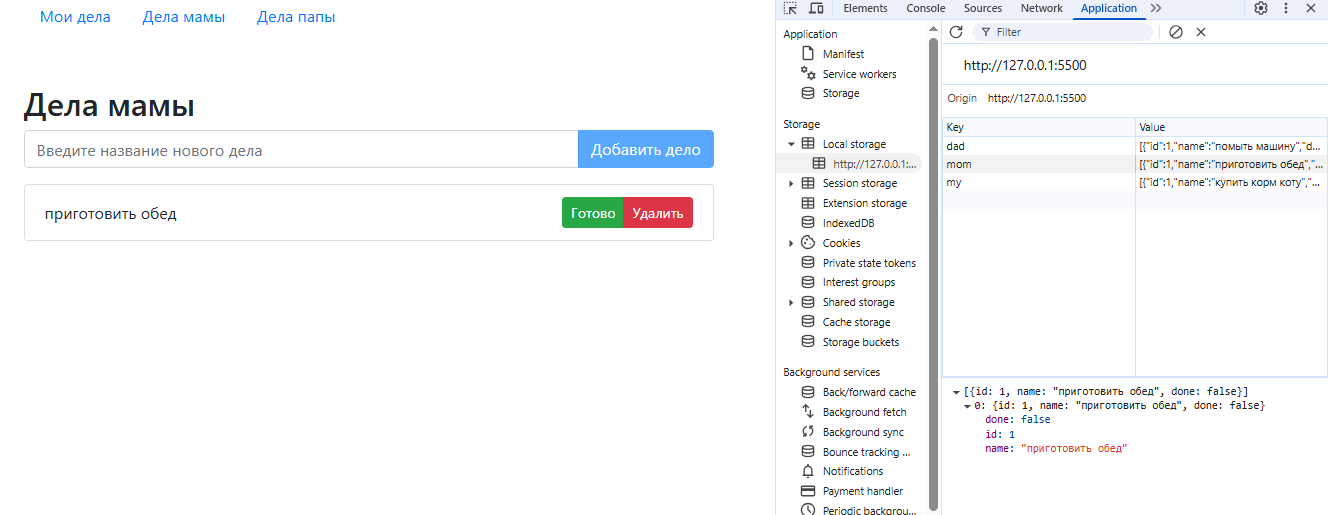
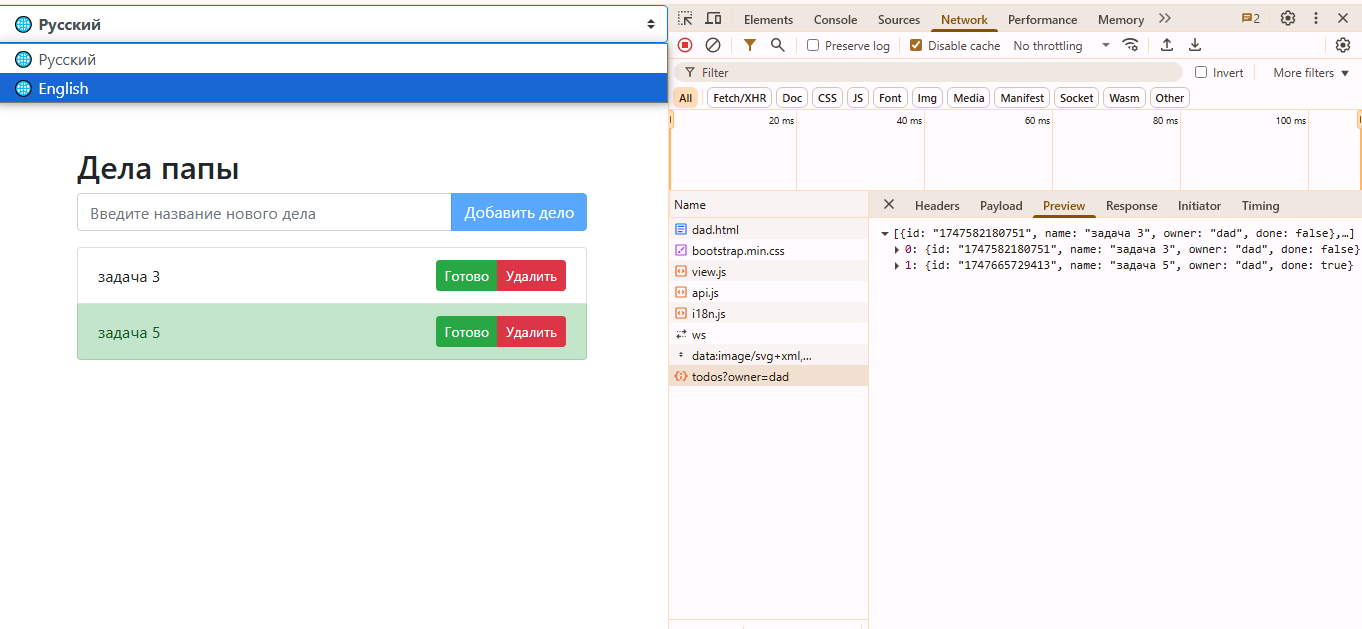
add bilingual (RU/EN) interface, instant language switching, updated README and screenshots

Changed region(s): [[0.0, 0.0, 1.0, 1.0]]

diff --git a/docs/js/view.js b/docs/js/view.js
@@ -1,11 +1,95 @@
-function createAppTitle(title) {
+// eslint-disable-next-line import/extensions
+import { translations, supportedLangs } from './i18n.js';
+
+// Функция для получения текущего языка из localStorage
+function getCurrentLang() {
+  return localStorage.getItem('lang') || 'ru';
+}
+
+// Функция для создания элемента select с языками
+function createLangSelect(owner) {
+  const langSelect = document.createElement('select');
+  langSelect.classList.add('custom-select', 'border', 'border-primary', 'shadow', 'mb-3', 'px-3', 'py-1', 'font-weight-bold');
+
+  // Заполняем элемент select языками
+  supportedLangs.forEach((lang) => {
+    const option = document.createElement('option'); // Создаем элемент option
+    option.value = lang.code; // Устанавливаем значение value
+    option.textContent = `🌐 ${lang.label}`; // Устанавливаем текстовое содержимое
+
+    if (lang.code === getCurrentLang()) option.selected = true; // Устанавливаем язык из localStorage
+    langSelect.append(option); // Добавляем элемент option в select
+  });
+
+  // Обработчик события изменения языка
+  langSelect.addEventListener('change', (e) => {
+    e.preventDefault();
+    const selectedLang = e.target.value; // Получаем выбранный язык из элемента select
+    localStorage.setItem('lang', selectedLang); // Сохраняем выбранный язык в localStorage
+    document.documentElement.lang = selectedLang; // Устанавливаем атрибут lang у html элемента
+
+    // eslint-disable-next-line no-use-before-define
+    setAppNavText(); // Создаем текст навигации
+
+    document.querySelector('h2').innerHTML = translations[selectedLang][`title_${owner}`] || translations[selectedLang].title_my;
+    document.querySelector('input').placeholder = translations[selectedLang].addPlaceholder; // Изменяем плейсхолдер в поле ввода
+    document.querySelector('button').textContent = translations[selectedLang].addButton; // Изменяем текст кнопки добавления
+
+    document.querySelectorAll('.btn-success').forEach((btn) => { // Изменяем текст кнопки "Готово"
+      btn.textContent = translations[selectedLang].doneButton;
+    });
+
+    document.querySelectorAll('.btn-danger').forEach((btn) => {
+      btn.textContent = translations[selectedLang].deleteButton;
+    });
+
+    document.querySelectorAll('.btn-group').forEach((btnGroup) => {
+      btnGroup.querySelector('button').textContent = translations[selectedLang].doneButton;
+      btnGroup.querySelectorAll('button')[1].textContent = translations[selectedLang].deleteButton;
+    });
+  });
+
+  // Обработчик события загрузки страницы
+  document.addEventListener('DOMContentLoaded', () => {
+    const savedLang = localStorage.getItem('lang') || 'ru';
+    document.documentElement.lang = savedLang;
+    langSelect.value = savedLang;
+    document.body.prepend(langSelect); // Добавляем элемент select в начало body
+  });
+
+  return langSelect; // Возвращаем элемент select
+}
+
+createLangSelect();
+
+// Функция для создания текста навигации
+function setAppNavText() {
+  const lang = getCurrentLang();
+  const t = translations[lang];
+  const navLinks = [
+    { id: 'nav-my-link', key: 'title_my' },
+    { id: 'nav-mom-link', key: 'title_mom' },
+    { id: 'nav-dad-link', key: 'title_dad' },
+  ];
+  navLinks.forEach((link) => {
+    const el = document.getElementById(link.id);
+    if (el) el.textContent = t[link.key];
+  });
+}
+
+// Функция для создания заголовка приложения
+function createAppTitle(owner) {
+  const lang = getCurrentLang();
+  const t = translations[lang];
   const appTitle = document.createElement('h2');
-  appTitle.innerHTML = title;
+  appTitle.innerHTML = t[`title_${owner}`] || t.title_my;
 
   return appTitle;
 }
 
 function createTodoItemForm() {
+  const lang = getCurrentLang();
+  const t = translations[lang];
   const form = document.createElement('form');
   const input = document.createElement('input');
   const buttonWrapper = document.createElement('div');
@@ -13,10 +97,10 @@ function createTodoItemForm() {
 
   form.classList.add('input-group', 'mb-3');
   input.classList.add('form-control');
-  input.placeholder = 'Введите название нового дела';
+  input.placeholder = t.addPlaceholder;
   buttonWrapper.classList.add('input-group-append');
   button.classList.add('btn', 'btn-primary', 'disabled');
-  button.textContent = 'Добавить дело';
+  button.textContent = t.addButton;
 
   buttonWrapper.append(button);
   form.append(input);
@@ -44,10 +128,10 @@ function createTodoList() {
 }
 
 function createTodoItemElement(todoItem, { onDone, onDelete }) {
+  const lang = getCurrentLang();
+  const t = translations[lang];
   const doneClass = 'list-group-item-success';
-
   const item = document.createElement('li');
-
   const buttonGroup = document.createElement('div');
   const doneButton = document.createElement('button');
   const deleteButton = document.createElement('button');
@@ -62,23 +146,23 @@ function createTodoItemElement(todoItem, { onDone, onDelete }) {
 
   buttonGroup.classList.add('btn-group', 'btn-group-sm');
   doneButton.classList.add('btn', 'btn-success');
-  doneButton.textContent = 'Готово';
+  doneButton.textContent = t.doneButton;
   deleteButton.classList.add('btn', 'btn-danger');
-  deleteButton.textContent = 'Удалить';
+  deleteButton.textContent = t.deleteButton;
 
   buttonGroup.append(doneButton);
   buttonGroup.append(deleteButton);
   item.append(buttonGroup);
 
   doneButton.addEventListener('click', () => {
-    item.classList.toggle(doneClass, todoItem.done); // Переключение класса doneClass
-    onDone({ todoItem, element: item }); // Вызов функции onDone с объектом todoItem и элементом item
+    item.classList.toggle(doneClass, todoItem.done);
+    onDone({ todoItem, element: item });
   });
 
   deleteButton.addEventListener('click', () => {
-    if (confirm('Вы уверены?')) {
-      onDelete({ todoItem, element: item }); // Вызов функции onDelete с объектом todoItem и элементом item
-      item.remove(); // Удаление элемента из DOM
+    if (confirm(t.confirmDelete)) {
+      onDelete({ todoItem, element: item });
+      item.remove();
     }
   });
 
@@ -86,15 +170,14 @@ function createTodoItemElement(todoItem, { onDone, onDelete }) {
 }
 
 async function createTodoApp(container, {
-  title,
   owner,
   todoItemList = [],
   onCreateFormSubmit,
-  onDoneClick, // обработчик события на кнопку "Готово"
-  onDeleteClick, // обработчик события на кнопку "Удалить"
+  onDoneClick,
+  onDeleteClick,
 }) {
-  // Вызов раннее созданных функций
-  const todoAppTitle = createAppTitle(title);
+  setAppNavText();
+  const todoAppTitle = createAppTitle(owner); // используем owner напрямую
   const todoItemForm = createTodoItemForm();
   const todoList = createTodoList();
 
@@ -105,8 +188,8 @@ async function createTodoApp(container, {
         owner,
         done: !todoItem.done,
       });
-      todoItem.done = !todoItem.done; // Изменение состояния done
-      element.classList.toggle('list-group-item-success', todoItem.done); // Переключение класса doneClass
+      todoItem.done = !todoItem.done;
+      element.classList.toggle('list-group-item-success', todoItem.done);
     },
     onDelete: async ({ todoItem, element }) => {
       await onDeleteClick({
@@ -121,7 +204,6 @@ async function createTodoApp(container, {
   container.append(todoItemForm.form);
   container.append(todoList);
 
-  // Получение списка дел
   todoItemList.forEach((todoItem) => {
     const todoItemElement = createTodoItemElement(todoItem, handlers);
     todoList.append(todoItemElement);
@@ -129,23 +211,16 @@ async function createTodoApp(container, {
 
   todoItemForm.form.addEventListener('submit', async (e) => {
     e.preventDefault();
-
-    // Проверка на пустое значение
     if (!todoItemForm.input.value) {
       return;
     }
-
     const todoItem = await onCreateFormSubmit({
       owner,
       name: todoItemForm.input.value.trim(),
       done: false,
     });
-
     const todoItemElement = createTodoItemElement(todoItem, handlers);
-
     todoList.append(todoItemElement);
-
-    // обнуляем значение в поле, чтобы не пришлось его стирать вручную
     todoItemForm.input.value = '';
   });
 }

diff --git a/docs/dad.html b/docs/dad.html
@@ -16,7 +16,6 @@
     (async () => {
       const todoItemList = await api.getTodoItemList(owner);
       createTodoApp(document.getElementById('todo-app'), {
-        title: 'Дела папы',
         owner,
         todoItemList,
         onCreateFormSubmit: api.createTodoItem,
@@ -30,9 +29,9 @@
 <body>
   <div class="container mb-5">
     <nav class="nav">
-      <a class="nav-link" href="index.html">Мои дела</a>
-      <a class="nav-link" href="mom.html">Дела мамы</a>
-      <a class="nav-link" href="dad.html">Дела папы</a>
+      <a class="nav-link" href="index.html" id="nav-my-link"></a>
+      <a class="nav-link" href="mom.html" id="nav-mom-link"></a>
+      <a class="nav-link" href="dad.html" id="nav-dad-link"></a>
     </nav>
   </div>
   <div class="container" id="todo-app"></div>

diff --git a/docs/mom.html b/docs/mom.html
@@ -16,7 +16,6 @@
     (async () => {
       const todoItemList = await api.getTodoItemList(owner);
       createTodoApp(document.getElementById('todo-app'), {
-        title: 'Дела мамы',
         owner,
         todoItemList,
         onCreateFormSubmit: api.createTodoItem,
@@ -30,9 +29,9 @@
 <body>
   <div class="container mb-5">
     <nav class="nav">
-      <a class="nav-link" href="index.html">Мои дела</a>
-      <a class="nav-link" href="mom.html">Дела мамы</a>
-      <a class="nav-link" href="dad.html">Дела папы</a>
+      <a class="nav-link" href="index.html" id="nav-my-link"></a>
+      <a class="nav-link" href="mom.html" id="nav-mom-link"></a>
+      <a class="nav-link" href="dad.html" id="nav-dad-link"></a>
     </nav>
   </div>
   <div class="container" id="todo-app"></div>

diff --git a/docs/index.html b/docs/index.html
@@ -16,7 +16,6 @@
     (async () => {
       const todoItemList = await getTodoItemList(owner);
       createTodoApp(document.getElementById('todo-app'), {
-        title: 'Мои дела',
         owner,
         todoItemList,
         onCreateFormSubmit: createTodoItem,
@@ -30,9 +29,9 @@
 <body>
   <div class="container mb-5">
     <nav class="nav">
-      <a class="nav-link" href="index.html">Мои дела</a>
-      <a class="nav-link" href="mom.html">Дела мамы</a>
-      <a class="nav-link" href="dad.html">Дела папы</a>
+      <a class="nav-link" href="index.html" id="nav-my-link"></a>
+      <a class="nav-link" href="mom.html" id="nav-mom-link"></a>
+      <a class="nav-link" href="dad.html" id="nav-dad-link"></a>
     </nav>
   </div>
   <div class="container" id="todo-app"></div>

diff --git a/docs/js/i18n.js b/docs/js/i18n.js
@@ -1,0 +1,27 @@
+export const translations = {
+  ru: {
+    title_my: 'Мои дела',
+    title_mom: 'Дела мамы',
+    title_dad: 'Дела папы',
+    addPlaceholder: 'Введите название нового дела',
+    addButton: 'Добавить дело',
+    doneButton: 'Готово',
+    deleteButton: 'Удалить',
+    confirmDelete: 'Вы уверены?',
+  },
+  en: {
+    title_my: 'My Tasks',
+    title_mom: 'Mom\'s Tasks',
+    title_dad: 'Dad\'s Tasks',
+    addPlaceholder: 'Enter a new task',
+    addButton: 'Add Task',
+    doneButton: 'Done',
+    deleteButton: 'Delete',
+    confirmDelete: 'Are you sure?',
+  },
+};
+
+export const supportedLangs = [
+  { code: 'ru', label: 'Русский' },
+  { code: 'en', label: 'English' },
+];

diff --git a/README.md b/README.md
@@ -1,6 +1,14 @@
 # To-Do App
 
+> ⚠ **Note:** On GitHub Pages, the app works only in offline mode (localStorage).
+> To use all features (including API and multi-user support), please clone the repository and run the server locally.
+> See instructions in the "How to Run the Project" section.
+
 A simple application for creating a to-do list using JavaScript, HTML, and Bootstrap.
+
+## Demo
+
+You can try the app online (offline mode only) via [GitHub Pages](https://kate8382.github.io/to-do_app/docs/index.html).
 
 ## Description
 
@@ -10,12 +18,15 @@ This application allows users to:
 - Delete tasks.
 - Work with tasks stored both on a backend server (API) and in `localStorage` (offline mode).
 - Automatically synchronize tasks between API and localStorage.
+- Switch between Russian and English interface (language selector in the UI).
+- Use a modular code structure (separate files for view, API, translations).
 
 ## Project Structure
 
-- **index.html**: The main page of the application.
-- **js/view.js**: Module responsible for rendering the UI and handling user interactions.
+- **index.html, mom.html, dad.html**: Main pages for different to-do lists (My, Mom's, Dad's).
+- **js/view.js**: Module responsible for rendering the UI, handling user interactions, and language switching.
 - **js/api.js**: Module for working with the backend API and localStorage (hybrid logic).
+- **js/i18n.js**: Module with translations and supported languages (for i18n).
 - **js/todo-app.js**: (Optional) Combined logic for demonstration or legacy purposes.
 - **README.md**: Project documentation.
 
@@ -26,6 +37,7 @@ This application allows users to:
 - **JavaScript (ES6 modules)**: For implementing functionality and modularity.
 - **localStorage**: For saving data on the client side (offline support).
 - **REST API**: For persistent storage and multi-user support.
+- **i18n (Internationalization)**: For supporting multiple languages (RU/EN).
 
 ## How to Run the Project
 
@@ -38,7 +50,7 @@ This application allows users to:
    cd to-do_app/todo-server
    node index.js
    ```
-3. Open the `index.html` file in your browser.
+3. Open the `index.html` file in your browser (from the `docs` folder for GitHub Pages compatibility).
 
 ## Features
 
@@ -57,6 +69,15 @@ This application allows users to:
    - If the server is unavailable, the app works in offline mode using localStorage.
    - When the server becomes available again, data is synchronized automatically.
 
+5. **Language switching:**
+   - The interface supports both Russian and English.
+   - You can switch the language at any time using the dropdown at the top of the page.
+   - All UI elements (navigation, buttons, placeholders, confirmations) are translated instantly.
+
+6. **Modular code structure:**
+   - The code is split into logical modules: UI (view.js), API (api.js), translations (i18n.js).
+   - Easy to maintain and extend.
+
 ## Navigation
 
 The application supports multiple to-do lists:
@@ -68,6 +89,8 @@ The application supports multiple to-do lists:
 You can switch between lists using the navigation menu. Each list is stored and synchronized separately.
 
 ## Screenshots
+
+Below you can see both the user interface and the developer tools (showing localStorage and API usage):
 
 ![Screenshot 1](screenshots/image1.png)
 ![Screenshot 2](screenshots/image2.png)
